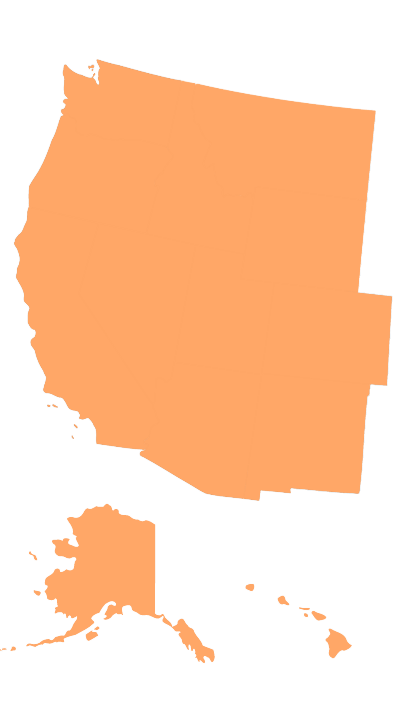
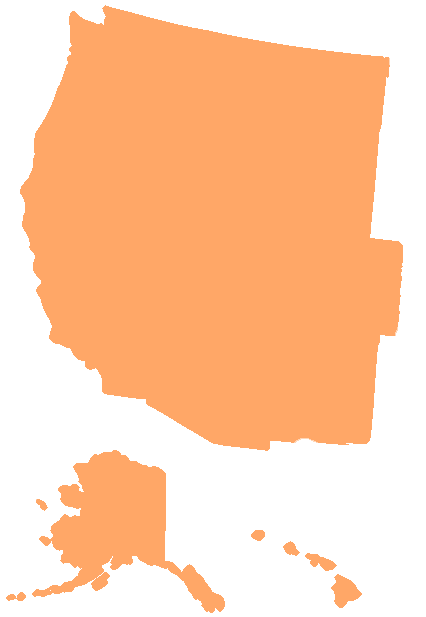
map search

diff --git a/web/js/dashboard_scripts.js b/web/js/dashboard_scripts.js
@@ -102,7 +102,7 @@ $(document).ready(function() {
                 },
 
                 mapNavigation: {
-                    enabled: true,
+                    enabled: false,
                     buttonOptions: {
                         verticalAlign: 'bottom'
                     }
@@ -215,7 +215,7 @@ $(document).ready(function() {
     jQuery('#container_us').vectorMap({
         map: 'usa_en',
         backgroundColor: null,
-        color: '#57A0C1',
+        color: '#0468B0',
         hoverOpacity: 0.7,
         selectedColor: '#666666',
         enableZoom: true,
@@ -223,12 +223,10 @@ $(document).ready(function() {
         selectedRegion: 'MO'
     });
 
-
-var west_ids = "#jqvmap1_wy, #jqvmap1_wa, #jqvmap1_mt, #jqvmap1_id, #jqvmap1_or, #jqvmap1_ca, #jqvmap1_nv, #jqvmap1_ut, #jqvmap1_co, #jqvmap1_mt, #jqvmap1_nm, #jqvmap1_ak, #jqvmap1_hi, #jqvmap1_az";
-var south_ids = "#jqvmap1_dc, #jqvmap1_tx, #jqvmap1_ok, #jqvmap1_la, #jqvmap1_ar, #jqvmap1_ms, #jqvmap1_fl, #jqvmap1_al, #jqvmap1_tn, #jqvmap1_ky, #jqvmap1_sc, #jqvmap1_va, #jqvmap1_wv, #jqvmap1_md, #jqvmap1_de, #jqvmap1_ga, #jqvmap1_nc";
-var midwest_ids = "#jqvmap1_nd, #jqvmap1_sd, #jqvmap1_ne, #jqvmap1_ks, #jqvmap1_mn, #jqvmap1_ia, #jqvmap1_mo, #jqvmap1_il, #jqvmap1_wi, #jqvmap1_mi, #jqvmap1_in, #jqvmap1_oh, #jqvmap1_mi";
-var northeast_ids = "#jqvmap1_nj, #jqvmap1_pa, #jqvmap1_ny, #jqvmap1_vt, #jqvmap1_ct, #jqvmap1_ri, #jqvmap1_ma, #jqvmap1_nh, #jqvmap1_me";
-
+    var west_ids = "#jqvmap1_wy, #jqvmap1_wa, #jqvmap1_mt, #jqvmap1_id, #jqvmap1_or, #jqvmap1_ca, #jqvmap1_nv, #jqvmap1_ut, #jqvmap1_co, #jqvmap1_mt, #jqvmap1_nm, #jqvmap1_ak, #jqvmap1_hi, #jqvmap1_az";
+    var south_ids = "#jqvmap1_dc, #jqvmap1_tx, #jqvmap1_ok, #jqvmap1_la, #jqvmap1_ar, #jqvmap1_ms, #jqvmap1_fl, #jqvmap1_al, #jqvmap1_tn, #jqvmap1_ky, #jqvmap1_sc, #jqvmap1_va, #jqvmap1_wv, #jqvmap1_md, #jqvmap1_de, #jqvmap1_ga, #jqvmap1_nc";
+    var midwest_ids = "#jqvmap1_nd, #jqvmap1_sd, #jqvmap1_ne, #jqvmap1_ks, #jqvmap1_mn, #jqvmap1_ia, #jqvmap1_mo, #jqvmap1_il, #jqvmap1_wi, #jqvmap1_mi, #jqvmap1_in, #jqvmap1_oh, #jqvmap1_mi";
+    var northeast_ids = "#jqvmap1_vt, #jqvmap1_nj, #jqvmap1_pa, #jqvmap1_ny, #jqvmap10_vt, #jqvmap1_ct, #jqvmap1_ri, #jqvmap1_ma, #jqvmap1_nh, #jqvmap1_me";
 
 //west
     $(west_ids).click(function(e){
@@ -466,7 +464,12 @@ var northeast_ids = "#jqvmap1_nj, #jqvmap1_pa, #jqvmap1_ny, #jqvmap1_vt, #jqvmap
         $(midwest_ids).css({"stroke":"#818181", "stroke-width": "1px", "fill": "#57A0C1"});
         $(northeast_ids).css({"stroke":"#818181", "stroke-width": "1px", "fill": "#57A0C1"});
 
-        
+        $('.region_title p').html('');
+
+        region_name = '';
+        region_name_us = '';
+        region_title = '';
+
         first = 0;
         first_ctrl = 0;
 

diff --git a/web/css/style.css b/web/css/style.css
@@ -13,8 +13,6 @@
     font-style: normal;
 }
 
-/*////////////////////////////////////////////////////////////////////////////////////////////////////*/
-
 #container {
     width: 800px;
     height: 500px;
@@ -45,37 +43,52 @@
 }
 
 #us_west {
-    width: 332px;
-    height: 573px;
-    margin-left: 7px;
+    width: 342px;
+    height: 495px;
+    margin-left: 0px;
     position: absolute;
-    margin-top: -8px;
+    margin-top: 32px;
     z-index: -100 !important;
 }
 
 #us_south {
-    width: 477px;
-    height: 330px;
-    margin-top: 202px;
+    width: 491px;
+    height: 313px;
+    margin-top: 207px;
     margin-left: 225px;
     position: absolute;
+    z-index: -100 !important;
 }
 
 #midwest {
-    width: 356px;
-    height: 269px;
-    margin-left: 273px;
-    margin-top: 64px;
+    width: 344px;
+    height: 267px;
+    margin-left: 284px;
+    margin-top: 63px;
     position: absolute;
+    z-index: -100 !important;
 }
 
 #northeast {
-    width: 182px;
-    height: 188px;
-    margin-left: 601px;
-    margin-top: 55px;
+    width: 195px;
+    height: 197px;
+    margin-left: 596px;
+    margin-top: 50px;
     position: absolute;
+    z-index: -100 !important;
 }
+
+#all_us_map {
+    width: 778px;
+    height: 494px;
+    margin-left: 1px;
+    margin-top: 33px;
+    position: absolute;
+    left:0;
+    top:0;
+    z-index: -1000;
+
+ }
 
 .region_title {
     height: 20px;
@@ -89,11 +102,6 @@
     height: 20px;
     font-weight: 700;
 }
-
-/*////////////////////////////////////////////////////////////////////////////////////////////////////*/
-
-
-
 
 #region_selected {
     width: 40px;

diff --git a/apps/frontend/modules/dashboard/templates/_alert_popups.php b/apps/frontend/modules/dashboard/templates/_alert_popups.php
@@ -73,12 +73,17 @@
         <div class="region_title">
             <p></p>
         </div>
+
+            <img src="../images/all_us_map.png" id="all_us_map">
+
         <div class="us_states">
+
             <img src="../images/us_west.png" id="us_west">
             <img src="../images/us_south.png" id="us_south">
             <img src="../images/midwest.png" id="midwest">
             <img src="../images/northeast.png" id="northeast">
         </div>
+
     </div>
 
 
